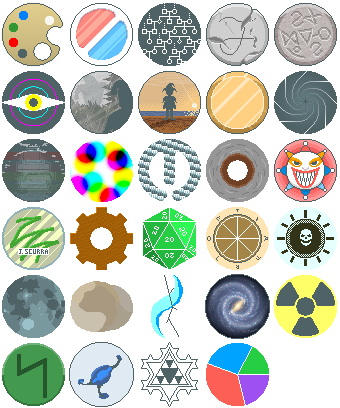
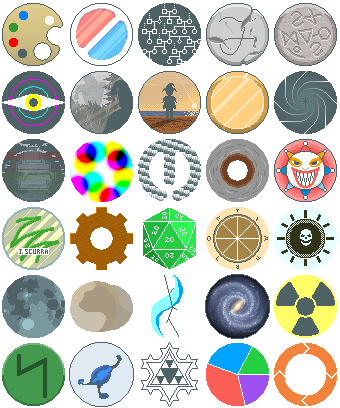
Add Revolve

Changed region(s): [[0.7941, 0.8235, 1.0, 1.0]]

diff --git a/README.md b/README.md
@@ -7,7 +7,7 @@ Additions are generally meant to be well-balanced with vanilla, although the dec
 Current contents:
 
 - 31 Jokers
-- 23 Charms (a new kind of thing in the shop)
+- 25 Charms (a new kind of thing in the shop)
 - 20 Tags
 - 5 Decks
 - 5 [Deck Sleeves](https://github.com/larswijn/CardSleeves)
